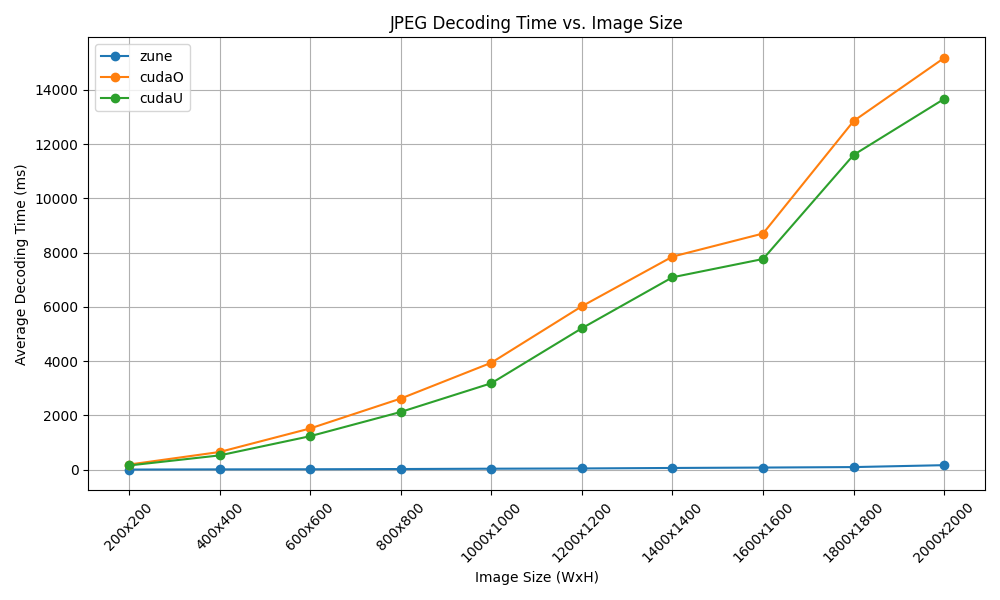
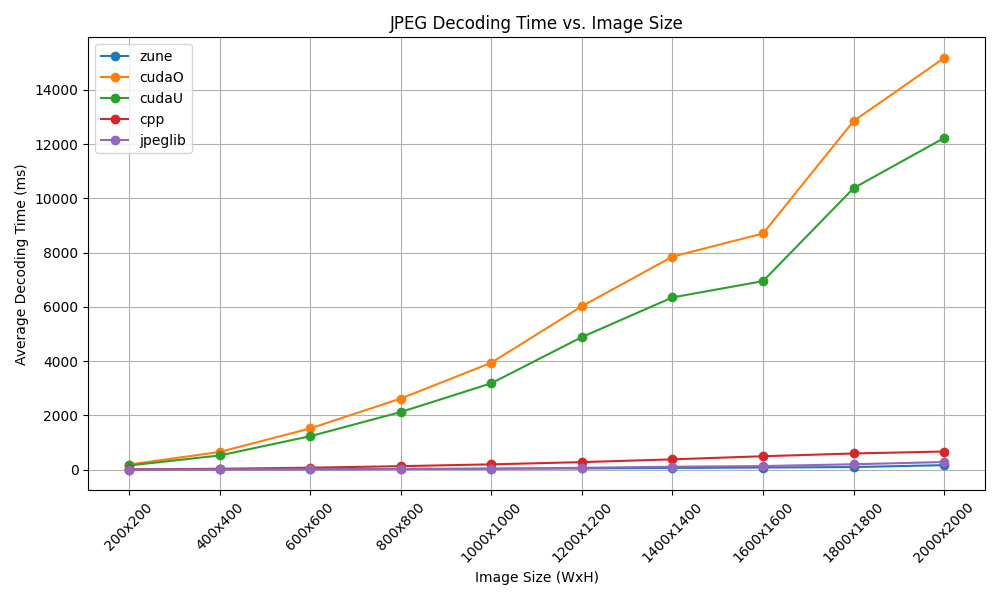
benchmarking

diff --git a/plots/plot_benchmark_v2.py b/plots/plot_benchmark_v2.py
@@ -1,58 +1,67 @@
 import os
 import json
-import numpy as np  # To compute standard deviation
 import matplotlib.pyplot as plt
 
-versions = ['cpp', 'cuda', 'cudaunified']
+# Define benchmark parameters
+versions = ['zune', 'cudaO', 'cudaU', 'cpp', 'jpeglib']
 sizes = [200, 400, 600, 800, 1000, 1200, 1400, 1600, 1800, 2000]
 
+def find_json_file(base_path, version):
+    """
+    Searches for the JSON file under `implementation/build/` or `implementation/benchmark/build/`.
+    """
+    possible_paths = [
+        os.path.join(base_path, version + '-implementation', 'build', 'benchmark_results.json'),
+        os.path.join(base_path, version + '-implementation', 'benchmark', 'build', 'benchmark_results.json')
+    ]
+    for path in possible_paths:
+        if os.path.exists(path):
+            return path
+    raise FileNotFoundError(f"JSON file not found for version {version} in specified directories.")
+
 def readings(json_path):
+    """
+    Reads benchmark results from a JSON file and computes average decoding times for each size.
+    """
     with open(json_path, 'r') as file:
         data = json.load(file)
 
-    # Initialize lists to store times per size
-    times_per_size = [[] for _ in range(len(sizes))]
-    
-    # Collect the real_time for each size
+    # Initialize totals and counts for each size
+    totals = [0 for _ in range(len(sizes))]
+    counts = [0 for _ in range(len(sizes))]
+
     for bench in data["benchmarks"]:
         idx = bench["family_index"]
-        times_per_size[idx].append(bench["real_time"])
-    
-    # Calculate averages and standard deviations
-    averages = [np.mean(times) if times else 0 for times in times_per_size]
-    std_devs = [np.std(times) if times else 0 for times in times_per_size]
-    
-    return averages, std_devs
+        totals[idx] += bench["real_time"]
+        counts[idx] += 1
 
-# Dictionary to store average times and standard deviations
+    # Compute average decoding times
+    results = [totals[i] / counts[i] if counts[i] > 0 else 0 for i in range(len(sizes))]
+    return results
+
+# Base path for the project
+base_path = '/home/dphpc2024_jpeg_1/GPU-JPEG-Decoder/'
+
+# Extract average decoding times for each version
 average_times = {}
-std_devs = {}
-
 for version in versions:
-    results_json = os.path.join('/home/dphpc2024_jpeg_1/GPU-JPEG-Decoder/', version + '-implementation', 'benchmark', 'build', 'benchmark_results.json')
-    # results_json = os.path.join('/home/dphpc2024_jpeg_1/GPU-JPEG-Decoder/', version + '-implementation', 'build/benchmark_results.json')
-    avg, std = readings(results_json)
-    average_times[version] = avg
-    std_devs[version] = std
-    print(f"{version} average times: {avg}")
-    print(f"{version} std deviations: {std}")
+    try:
+        results_json = find_json_file(base_path, version)
+        print(f"Processing file: {results_json}")
+        average_times[version] = readings(results_json)
+        print(f"Averages for {version}: {average_times[version]}")
+    except FileNotFoundError as e:
+        print(e)
 
-# Plotting the results with standard deviation shading
+# Plot the results
 plt.figure(figsize=(10, 6))
 size_labels = [str(x) + "x" + str(x) for x in sizes]
-
 for version in versions:
-    avg = average_times[version]
-    std = std_devs[version]
-    
-    # Plot the average line
-    plt.plot(size_labels, avg, marker='o', label=version)
-    
-    # Add the shaded region for standard deviation
-    plt.fill_between(size_labels, np.array(avg) - np.array(std), np.array(avg) + np.array(std), alpha=0.2)
+    if version in average_times:
+        plt.plot(size_labels, average_times[version], marker='o', label=version)
 
 plt.legend()
-plt.title("JPEG Decoding Time vs. Image Size (with Standard Deviation)")
+plt.title("JPEG Decoding Time vs. Image Size")
 plt.xlabel("Image Size (WxH)")
 plt.ylabel("Average Decoding Time (ms)")
 plt.xticks(rotation=45)
@@ -60,8 +69,7 @@ plt.grid(True)
 plt.tight_layout()
 
 # Save the plot to a file
-output_path = '/home/dphpc2024_jpeg_1/GPU-JPEG-Decoder/plots/benchmark_decoding_time_plot_with_std.png'
+output_path = os.path.join(base_path, 'plots', 'benchmark_decoding_time_plot.png')
 plt.savefig(output_path)  # Save as PNG file
 
-# Display the plot
-# plt.show()
+print(f"Plot saved to {output_path}")

diff --git a/plots/plot_benchmark_v4.py b/plots/plot_benchmark_v4.py
@@ -1,0 +1,114 @@
+import os
+import matplotlib.pyplot as plt
+import numpy as np
+
+# Define benchmark parameters
+versions = ['zune', 'cudaO', 'cudaU', 'cpp', 'jpeglib']
+
+
+sizes = [200, 400, 600, 800, 1000, 1200, 1400, 1600, 1800, 2000]
+
+def find_txt_file(base_path, version):
+    """
+    Searches for the TXT file under `implementation/build/` or `implementation/benchmark/build/`.
+    """
+    possible_paths = [
+        os.path.join(base_path, version + '-implementation', 'build', 'benchmark_results.txt'),
+        os.path.join(base_path, version + '-implementation', 'benchmark', 'build', 'benchmark_results.txt')
+    ]
+    for path in possible_paths:
+        if os.path.exists(path):
+            return path
+    raise FileNotFoundError(f"TXT file not found for version {version} in specified directories.")
+
+def read_txt_file(txt_path):
+    """
+    Reads benchmark results from a TXT file and computes average decoding times and standard deviations for each size.
+    """
+    image_sizes = {size: [] for size in sizes} 
+
+    with open(txt_path, 'r') as file:
+        for line in file:
+            parts = line.strip().split()
+            image_path = parts[0]
+            time = float(parts[1])
+
+            size_str = image_path.split('/')[-2]  
+            size = int(size_str.split('x')[0])  
+
+            if size in image_sizes:
+                image_sizes[size].append(time)
+
+    return image_sizes
+
+def calculate_stats(image_sizes):
+    """
+    Calculate average decoding times and standard deviations for each size.
+    """
+    avg_times = {}
+    std_devs = {}
+    
+    for size, times in image_sizes.items():
+        #print(f"size: {size}")
+        #print(f"times: {times}")
+
+        if times:  
+            avg_times[size] = np.mean(times)
+            std_devs[size] = np.std(times)
+        else:
+            avg_times[size] = 0
+            std_devs[size] = 0
+
+    return avg_times, std_devs
+
+# Base path for the project
+base_path = '/home/dphpc2024_jpeg_1/GPU-JPEG-Decoder/'
+
+# Extract average decoding times and standard deviations for each version
+average_times = {}
+std_devs = {}
+for version in versions:
+    try:
+        results_txt = find_txt_file(base_path, version)
+        print(f"Processing file: {results_txt}")
+        image_sizes = read_txt_file(results_txt)
+        avg_times, std_dev = calculate_stats(image_sizes)
+        average_times[version] = avg_times
+        std_devs[version] = std_dev
+        print(f"Averages for {version}: {avg_times}")
+        print(f"Standard Deviations for {version}: {std_dev}")
+    except FileNotFoundError as e:
+        print(e)
+
+# Plot the results with standard deviation as shaded area behind each line
+plt.figure(figsize=(10, 6))
+size_labels = [str(x) + "x" + str(x) for x in sizes]
+for version in versions:
+    if version in average_times:
+        avg_times = [average_times[version].get(size, 0) for size in sizes]
+        std_devs_for_version = [std_devs[version].get(size, 0) for size in sizes]
+
+        color = plt.cm.tab10(versions.index(version) % 10)  
+        
+        # Only add shaded area if standard deviation is non-zero
+        if np.any(np.array(std_devs_for_version) > 0): 
+            plt.fill_between(size_labels, 
+                             np.subtract(avg_times, std_devs_for_version), 
+                             np.add(avg_times, std_devs_for_version), 
+                             alpha=0.3, color=color)  
+
+        plt.plot(size_labels, avg_times, marker='o', label=version, color=color)  
+
+plt.legend()
+plt.title("JPEG Decoding Time vs. Image Size with Standard Deviation")
+plt.xlabel("Image Size (WxH)")
+plt.ylabel("Average Decoding Time (ms)")
+plt.xticks(rotation=45)
+plt.grid(True)
+plt.tight_layout()
+
+# Save the plot to a file
+output_path = os.path.join(base_path, 'plots', 'benchmark_decoding_time_with_stddev_shaded_plot.png')
+plt.savefig(output_path)  # Save as PNG file
+
+print(f"Plot saved to {output_path}")

diff --git a/plots/throughput_boxplot_v2.py b/plots/throughput_boxplot_v2.py
@@ -1,0 +1,83 @@
+import os
+import matplotlib.pyplot as plt
+
+# Define benchmark parameters
+versions = ['zune', 'cudaO', 'cudaU', 'cpp', 'jpeglib']
+base_path = '/home/dphpc2024_jpeg_1/GPU-JPEG-Decoder/'
+
+# Function to extract throughput data in MB/sec from the benchmark results text file
+def extract_throughput_mb(file_path):
+    throughputs = []
+    try:
+        with open(file_path, "r") as file:
+            for line in file:
+                if "Bytes per second" in line:
+                    throughput = float(line.split("Bytes per second:")[-1].split("MB/sec")[0].strip())
+                    throughputs.append(throughput)
+    except Exception as e:
+        print(f"Error reading file {file_path}: {e}")
+    return throughputs
+
+# Function to find the TXT file for each version
+def find_txt_file(base_path, version):
+    possible_paths = [
+        os.path.join(base_path, version + '-implementation', 'benchmark_thoughput', 'build', 'benchmark_results.txt'),  # Fix for the typo
+        os.path.join(base_path, version + '-implementation', 'benchmark_throughput', 'build', 'benchmark_results.txt')  # Keep original path as fallback
+    ]
+    for path in possible_paths:
+        print(f"Checking path: {path}")
+        if os.path.exists(path):
+            return path
+    return None  # Return None if no file is found
+
+# Loop through all versions and collect throughput data
+throughput_data = {}
+
+for version in versions:
+    results_txt = find_txt_file(base_path, version)
+    if results_txt:
+        print(f"Processing file: {results_txt}")
+        throughput_data[version] = extract_throughput_mb(results_txt)
+        
+        # Print throughput data for debugging
+        if throughput_data[version]:
+            print(f"Throughput data for {version}: {throughput_data[version]}")
+        else:
+            print(f"No throughput data found for {version}")
+    else:
+        print(f"TXT file not found for version {version}.")
+
+# Prepare data for the boxplot
+box_data = [throughput_data[version] for version in versions if version in throughput_data and throughput_data[version]]
+
+# Check if there's valid data to plot
+if box_data:
+    # Create the boxplot
+    plt.figure(figsize=(10, 6))
+
+    plt.boxplot(
+        box_data,
+        patch_artist=True,
+        boxprops=dict(facecolor="skyblue", color="blue"),
+        medianprops=dict(color="red", linewidth=2),
+        whiskerprops=dict(color="blue", linewidth=1.5),
+        capprops=dict(color="blue", linewidth=1.5)
+    )
+
+    # Set plot labels and title
+    plt.title("Throughput Distribution for Various JPEG Decoders", fontsize=14)
+    plt.ylabel("Throughput (MB/sec)", fontsize=12)
+    plt.xticks(range(1, len(box_data) + 1), [v for v in versions if v in throughput_data and throughput_data[v]], fontsize=12)
+    plt.grid(axis="y", linestyle="--", alpha=0.7)
+    plt.tight_layout()
+
+    # Save the plot to a file
+    output_path = os.path.join(base_path, 'plots', 'throughput_boxplot_all_versions.png')
+    plt.savefig(output_path)
+
+    # Show the plot
+    plt.show()
+
+    print(f"Box plot saved as '{output_path}'")
+else:
+    print("No valid throughput data to plot.")

diff --git a/plots/throughput_boxplot.py b/plots/throughput_boxplot.py
@@ -1,27 +1,25 @@
 import matplotlib.pyplot as plt
 
-# Define the file path to the benchmark results text file
 results_file = "/home/dphpc2024_jpeg_1/GPU-JPEG-Decoder/zune-implementation/benchmark_throughput/build/benchmark_results.txt"
 
-def extract_throughput(file_path):
-    """Extract throughput values from the benchmark results text file."""
+def extract_throughput_mb(file_path):
+    """Extract throughput values in MB/sec from the benchmark results text file."""
     throughputs = []
     with open(file_path, "r") as file:
         for line in file:
-            if "Total Throughput" in line:
-                # Extract throughput value from the line
-                throughput = float(line.split("images/sec")[0].split(":")[-1].strip())
+            if "Bytes per second" in line:
+                throughput = float(line.split("Bytes per second:")[-1].split("MB/sec")[0].strip())
                 throughputs.append(throughput)
     return throughputs
 
-# Extract throughput data
-throughput_data = extract_throughput(results_file)
+# Extract throughput data in MB/sec
+throughput_data_mb = extract_throughput_mb(results_file)
 
-if throughput_data:
+if throughput_data_mb:
     # Create the boxplot
     plt.figure(figsize=(10, 6))
     plt.boxplot(
-        throughput_data,
+        throughput_data_mb,
         patch_artist=True,  
         boxprops=dict(facecolor="skyblue", color="blue"),  
         medianprops=dict(color="red", linewidth=2), 
@@ -29,16 +27,14 @@ if throughput_data:
         capprops=dict(color="blue", linewidth=1.5)  
     )
     plt.title("Throughput Distribution for Zune JPEG Decoder", fontsize=14)
-    plt.ylabel("Throughput (images/sec)", fontsize=12)
+    plt.ylabel("Throughput (MB/sec)", fontsize=12)  # Updated to MB/sec
     plt.xticks([1], ["Zune JPEG Decoder"], fontsize=12)
     plt.grid(axis="y", linestyle="--", alpha=0.7)
     plt.tight_layout()
 
-    # Save the plot as an image file
-    output_path = "/home/dphpc2024_jpeg_1/GPU-JPEG-Decoder/plots/throughput_boxplot.png"
+    output_path = "/home/dphpc2024_jpeg_1/GPU-JPEG-Decoder/plots/throughput_boxplot_mb.png"
     plt.savefig(output_path)
 
-    # Display the plot
     plt.show()
 
     print(f"Box plot saved as '{output_path}'")
